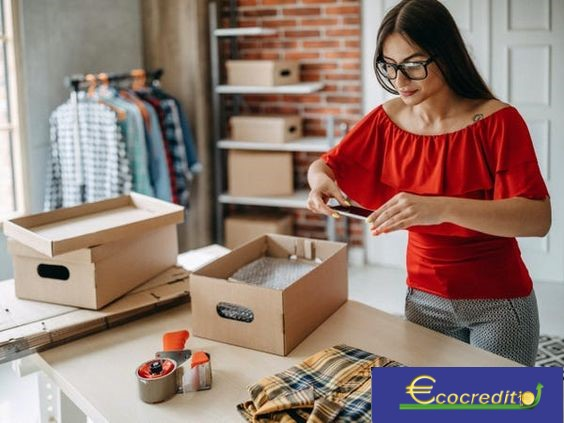
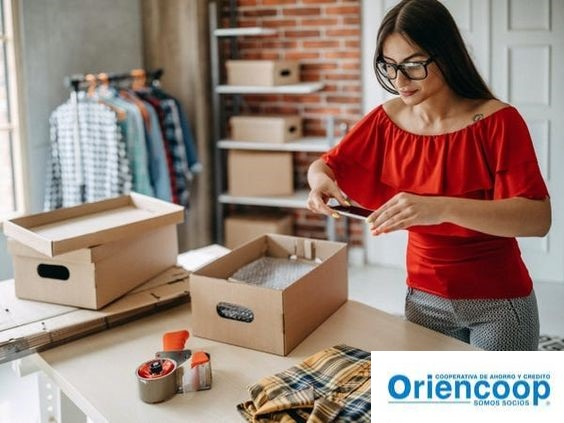
actualizacion de titulo y imagen

Changed region(s): [[0.633, 0.8298, 1.0, 1.0]]

diff --git a/replica-1/index.html b/replica-1/index.html
@@ -2,12 +2,12 @@
 <html lang="en">
 <head>
      <!--Metadata-->
-    <meta name="description" content="Pagina web ecocredit" />
+    <meta name="description" content="Pagina web Oriencoop" />
     <meta name="viewport" content="width=device-width, initial-scale=1.0">
     <meta charset="UTF-8">
 
     <!--Personalización-->
-    <title>Ecocredit</title>
+    <title>Oriencoop</title>
     <link rel="icon" type="image/jpg" href=""/>
 
     <!--Estilos y boostrap-->
